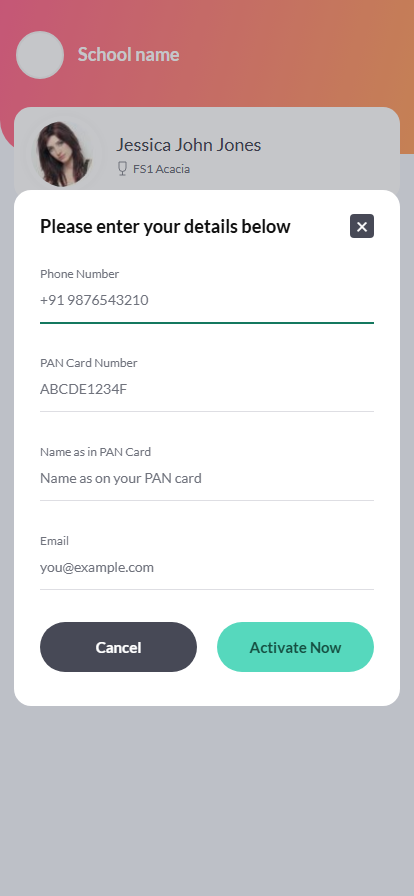
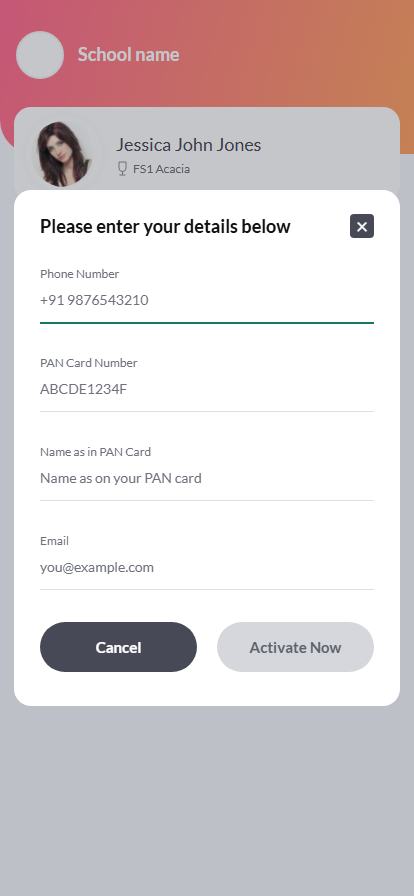
fix(ui): disable invalid activation and dismiss on backdrop

Changed region(s): [[0.5217, 0.6875, 0.8986, 0.75]]

diff --git a/frontend/src/app/activation/activation.ts b/frontend/src/app/activation/activation.ts
@@ -4,6 +4,7 @@ import {
   AfterViewInit,
   ChangeDetectionStrategy,
   Component,
+  computed,
   DestroyRef,
   ElementRef,
   inject,
@@ -13,9 +14,9 @@ import {
   signal,
   viewChild,
 } from '@angular/core';
-import { takeUntilDestroyed } from '@angular/core/rxjs-interop';
+import { takeUntilDestroyed, toSignal } from '@angular/core/rxjs-interop';
 import { FormControl, FormGroup, ReactiveFormsModule } from '@angular/forms';
-import { finalize } from 'rxjs';
+import { finalize, map, startWith } from 'rxjs';
 import { ActivationRequest, ActivationResponse, AssessmentApi } from '../core/api';
 import { fieldValidator, normalize } from './validation';
 
@@ -85,6 +86,16 @@ export class ActivationComponent implements AfterViewInit, OnDestroy {
     }),
     email: new FormControl('', { nonNullable: true, validators: [fieldValidator('email')] }),
   });
+  private readonly formValid = toSignal(
+    this.form.statusChanges.pipe(
+      map(() => this.form.valid),
+      startWith(this.form.valid),
+    ),
+    { initialValue: this.form.valid },
+  );
+  readonly canSubmit = computed(
+    () => this.formValid() && Object.values(this.serverErrors()).every((error) => !error),
+  );
   private readonly api = inject(AssessmentApi);
   private readonly document = inject(DOCUMENT);
   private readonly destroyRef = inject(DestroyRef);
@@ -135,6 +146,19 @@ export class ActivationComponent implements AfterViewInit, OnDestroy {
     this.dialog().nativeElement.close();
     this.cancelled.emit();
   }
+  backdropClick(event: MouseEvent) {
+    const dialog = this.dialog().nativeElement;
+    if (event.target !== dialog) return;
+    const bounds = dialog.getBoundingClientRect();
+    if (
+      event.clientX < bounds.left ||
+      event.clientX > bounds.right ||
+      event.clientY < bounds.top ||
+      event.clientY > bounds.bottom
+    ) {
+      this.cancel();
+    }
+  }
   blur(field: Field) {
     const control = this.form.controls[field];
     control.setValue(normalize(field, control.value));
@@ -160,8 +184,10 @@ export class ActivationComponent implements AfterViewInit, OnDestroy {
     if (this.busy()) return;
     for (const field of this.fields) this.blur(field.key);
     this.form.markAllAsTouched();
-    if (this.form.invalid) {
-      const invalid = this.fields.find((field) => this.form.controls[field.key].invalid);
+    if (!this.canSubmit()) {
+      const invalid = this.fields.find(
+        (field) => this.form.controls[field.key].invalid || this.serverErrors()[field.key],
+      );
       this.dialog().nativeElement.querySelector<HTMLInputElement>(`#${invalid?.key}`)?.focus();
       return;
     }

diff --git a/frontend/e2e/activation.spec.ts b/frontend/e2e/activation.spec.ts
@@ -64,10 +64,13 @@ test('dashboard → validation → activation → reload @evidence', async ({ pa
   await capture(page, '01-dashboard.png');
   await dashboardTrigger(page).click();
   await expect(page.getByLabel('Phone Number', { exact: true })).toBeFocused();
+  await expect(submitButton(page)).toBeDisabled();
   await capture(page, '02-activation-form.png');
   await page.getByLabel('Phone Number', { exact: true }).fill('+91987654321');
   await page.getByLabel('Email', { exact: true }).fill('parent@example.org');
-  await submitButton(page).click();
+  await page.getByLabel('Phone Number', { exact: true }).blur();
+  await page.getByLabel('Email', { exact: true }).blur();
+  await expect(submitButton(page)).toBeDisabled();
   await expect(page.getByText('Enter +91 followed by exactly 10 digits.')).toBeVisible();
   await expect(page.getByText('Enter a valid email ending in .com.')).toBeVisible();
   await capture(page, '03-validation-errors.png');
@@ -76,6 +79,7 @@ test('dashboard → validation → activation → reload @evidence', async ({ pa
   );
   expect(empty[0]['count']).toBe(0);
   await fillValid(page);
+  await expect(submitButton(page)).toBeEnabled();
   await expect(page.getByRole('img', { name: 'Phone Number is valid' })).toBeVisible();
   await expect(page.getByRole('img', { name: 'Email is valid' })).toBeVisible();
   await capture(page, '04-valid-details.png');
@@ -94,12 +98,15 @@ test('dashboard → validation → activation → reload @evidence', async ({ pa
   await capture(page, '06-persisted-after-reload.png');
 });
 
-test('cancel, close and Escape discard input, restore focus, and never write', async ({ page }) => {
+test('cancel, close, Escape and backdrop discard input, restore focus, and never write', async ({
+  page,
+}) => {
   const trigger = dashboardTrigger(page);
-  for (const action of ['Cancel', 'Close', 'Escape']) {
+  for (const action of ['Cancel', 'Close', 'Escape', 'Backdrop']) {
     await trigger.click();
     await fillValid(page);
     if (action === 'Escape') await page.keyboard.press('Escape');
+    else if (action === 'Backdrop') await page.mouse.click(8, 8);
     else
       await page
         .getByRole('button', {
@@ -116,6 +123,7 @@ test('cancel, close and Escape discard input, restore focus, and never write', a
   expect(rows[0]['count']).toBe(0);
   await trigger.click();
   await expect(page.getByLabel('Phone Number', { exact: true })).toHaveValue('');
+  await expect(submitButton(page)).toBeDisabled();
 });
 
 test('server failure preserves details and retry succeeds', async ({ page }) => {

diff --git a/frontend/src/app/activation/activation.html b/frontend/src/app/activation/activation.html
@@ -2,6 +2,7 @@
   #dialog
   aria-labelledby="activation-title"
   (cancel)="cancel($event)"
+  (click)="backdropClick($event)"
   (keydown)="trapFocus($event)"
 >
   <div class="modal-heading">
@@ -54,7 +55,7 @@
       <button type="button" class="cancel-button" [disabled]="busy()" (click)="cancel()">
         Cancel
       </button>
-      <button type="submit" class="submit-button" [disabled]="busy()">
+      <button type="submit" class="submit-button" [disabled]="busy() || !canSubmit()">
         {{ busy() ? 'Activating…' : 'Activate Now' }}
       </button>
     </div>

diff --git a/frontend/src/app/activation/activation.scss b/frontend/src/app/activation/activation.scss
@@ -131,8 +131,14 @@ input::placeholder {
   background: var(--mint);
   color: #164f42;
 }
-.submit-button:hover {
+.submit-button:not(:disabled):hover {
   background: #47c9ae;
+}
+.submit-button:disabled {
+  background: #d5d7dc;
+  color: #5d626b;
+  opacity: 1;
+  cursor: not-allowed;
 }
 button:disabled {
   opacity: 0.65;

diff --git a/docs/architecture.md b/docs/architecture.md
@@ -28,12 +28,12 @@ sequenceDiagram
 
 - **One monorepo, one small backend:** controllers expose HTTP; services own transactions; repositories own persistence. DTOs isolate the wire contract from JPA entities. The feature is too small to justify microservices, queues, CQRS, or a global frontend state library.
 - **Angular standalone components:** dashboard, activation, and API responsibilities are separated. Signals hold view state; typed reactive forms own field state and validation. OnPush limits unnecessary rendering.
-- **Native dialog:** `showModal()` provides top-layer rendering, background inertness, focus containment, and browser focus restoration. Explicit Tab wrapping keeps focus inside the form in both directions; Escape/cancel handling blocks dismissal while submitting; scroll locking prevents the page moving behind the modal. Keyboard behavior is verified in Chromium.
+- **Native dialog:** `showModal()` provides top-layer rendering, background inertness, focus containment, and browser focus restoration. Explicit Tab wrapping keeps focus inside the form in both directions; Escape/cancel/backdrop handling blocks dismissal while submitting; scroll locking prevents the page moving behind the modal. Keyboard behavior is verified in Chromium.
 - **PUT and student-keyed activation:** the resource has a stable student identity. Retries update one resource rather than appending submissions. Identical normalized payloads preserve the submission timestamp.
 - **Lock the parent row:** a lock on a nonexistent activation cannot reliably serialize first insertions. Locking the existing student row serializes both first and later submissions. The database key remains a second correctness boundary.
 - **Database-derived status:** activation row existence determines Activated. The successful PUT response is authoritative; the UI uses it immediately, then refetches the complete dashboard. If that refresh fails, the activation remains correctly displayed and a notice explains how to reload.
 - **Migrations over automatic DDL:** immutable Flyway migrations make schema/seed behavior reproducible. Hibernate validation catches mapping drift. Tests use real MySQL rather than relying on H2 compatibility.
-- **Frontend/backend validation:** the client gives immediate feedback and normalizes input for the canonical wire contract. Server validation remains authoritative. Tests cover corresponding phone, email, PAN, and name boundaries on both sides.
+- **Frontend/backend validation:** the client gives immediate feedback, disables submission until all fields are valid, and normalizes input for the canonical wire contract. Server validation remains authoritative. Tests cover corresponding phone, email, PAN, and name boundaries on both sides.
 - **Local fonts/assets:** Lato is bundled through Fontsource. The supplied Figma portrait was extracted from its visible design reference; the blank school mark and fee illustration are local SVGs. No business data or assets depend on a third-party request at runtime.
 
 ## Design choices and limitations

diff --git a/docs/evidence/README.md b/docs/evidence/README.md
@@ -5,13 +5,13 @@ Captured from the production Angular/Nginx + Spring Boot + MySQL Docker stack at
 | Step | Screenshot |
 | --- | --- |
 | 1. API-backed dashboard | [01-dashboard.png](01-dashboard.png) |
-| 2. Empty activation modal | [02-activation-form.png](02-activation-form.png) |
-| 3. Invalid phone/email and required-field errors | [03-validation-errors.png](03-validation-errors.png) |
+| 2. Empty activation modal with disabled submit | [02-activation-form.png](02-activation-form.png) |
+| 3. Invalid phone/email with inline errors and disabled submit | [03-validation-errors.png](03-validation-errors.png) |
 | 4. Normalized valid details and green ticks | [04-valid-details.png](04-valid-details.png) |
 | 5. Successful activation and return to dashboard | [05-activated-dashboard.png](05-activated-dashboard.png) |
 | 6. Persisted Activated status after reload | [06-persisted-after-reload.png](06-persisted-after-reload.png) |
 
-The evidence browser test also checks that invalid submission writes no activation, and that valid submission writes exactly one normalized MySQL record. See `frontend/e2e/activation.spec.ts`.
+The evidence browser test also checks that invalid input keeps submission disabled and writes no activation, and that valid submission writes exactly one normalized MySQL record. See `frontend/e2e/activation.spec.ts`.
 
 Regenerate using the commands in the root README. Capture output is committed intentionally; failure traces/reports/videos remain ignored local artifacts.
 

diff --git a/README.md b/README.md
@@ -47,8 +47,8 @@ Do not run the native backend and Docker backend on the same port. The native ap
 
 - The first student returned by the discovery API supplies the dashboard identity; school, student, annual fee, interest, and activation state come from MySQL.
 - Phone, PAN, name as on PAN, and email are required. Phone normalizes to `+91` plus ten digits; email must be valid and end in `.com`. PAN is uppercased and format-checked.
-- Valid phone/email fields show green ticks. Invalid fields show inline messages; server-side validation independently protects the API.
-- Cancel, close, and Escape discard unsaved fields, write nothing, and restore focus. Reopening starts with an empty form.
+- Valid phone/email fields show green ticks. Invalid fields show inline messages; Activate Now stays disabled until every field is valid. Server-side validation independently protects the API.
+- Cancel, close, Escape, and clicking the backdrop discard unsaved fields, write nothing, and restore focus. Reopening starts with an empty form.
 - Activate disables duplicate submissions, persists transactionally, returns to the dashboard, and shows Activated. Failed requests preserve details for retry.
 - A native dialog provides focus containment/background inertness. The 414px reference layout adapts to narrower screens and remains centered on desktop.
 
